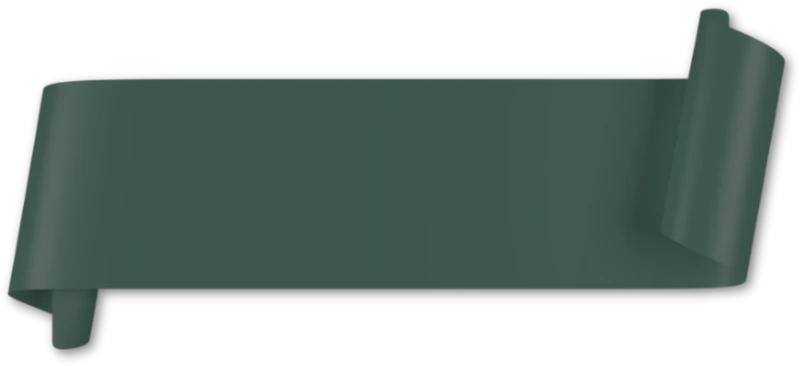
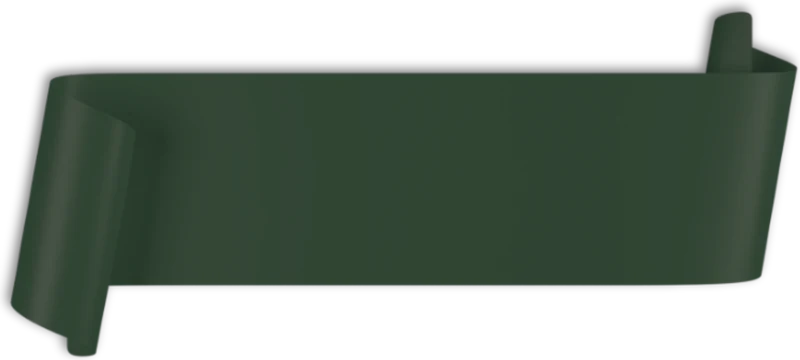
Use the new ribbon artwork and set couple names to 10cqw
The new ribbon's flat band sits right of centre, so the heading text
is now nudged right instead of left.

diff --git a/styles.css b/styles.css
@@ -394,7 +394,7 @@ body.is-cover-open { overflow: hidden; }
 
 .couple__name {
   font-family: var(--font-script);
-  font-size: 10.5cqw;
+  font-size: 10cqw;
   line-height: 1.15;
   margin: 0 0 0.7rem;
 }
@@ -1294,18 +1294,18 @@ body.is-cover-open { overflow: hidden; }
 }
 
 /* Section title set on the ribbon artwork. The ribbon's flat band sits
-   left of centre (its curled ends hang off the left-bottom and right-top),
-   so the text is nudged left with extra right padding to land on the band. */
+   right of centre (the wider curl is on the left), so the text is nudged
+   right with extra left padding to land on the band. */
 h2.ribbon-heading,
 h3.ribbon-heading {
   display: flex;
   align-items: center;
   justify-content: center;
   width: min(88%, 340px);
-  aspect-ratio: 800 / 366;
+  aspect-ratio: 800 / 360;
   margin-left: auto;
   margin-right: auto;
-  padding: 0 9% 0 0;
+  padding: 0 0 0 8%;
   background: url('public/assets/ribbon.webp') center / 100% 100% no-repeat;
   color: #fff;
   text-shadow: 0 1px 3px rgba(0, 0, 0, 0.25);
